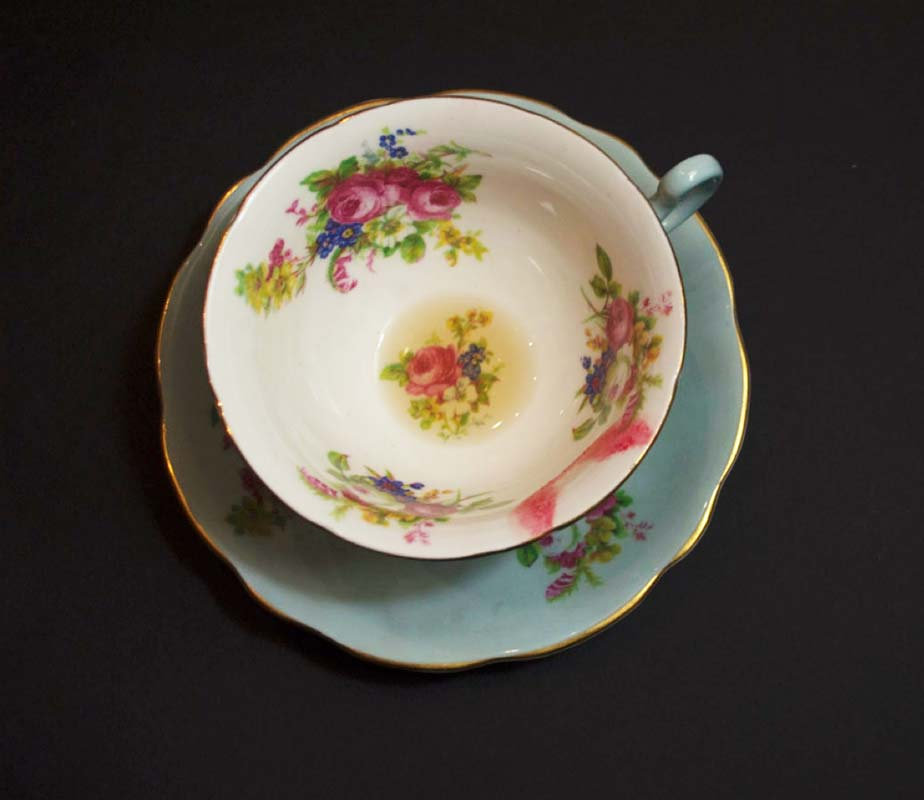
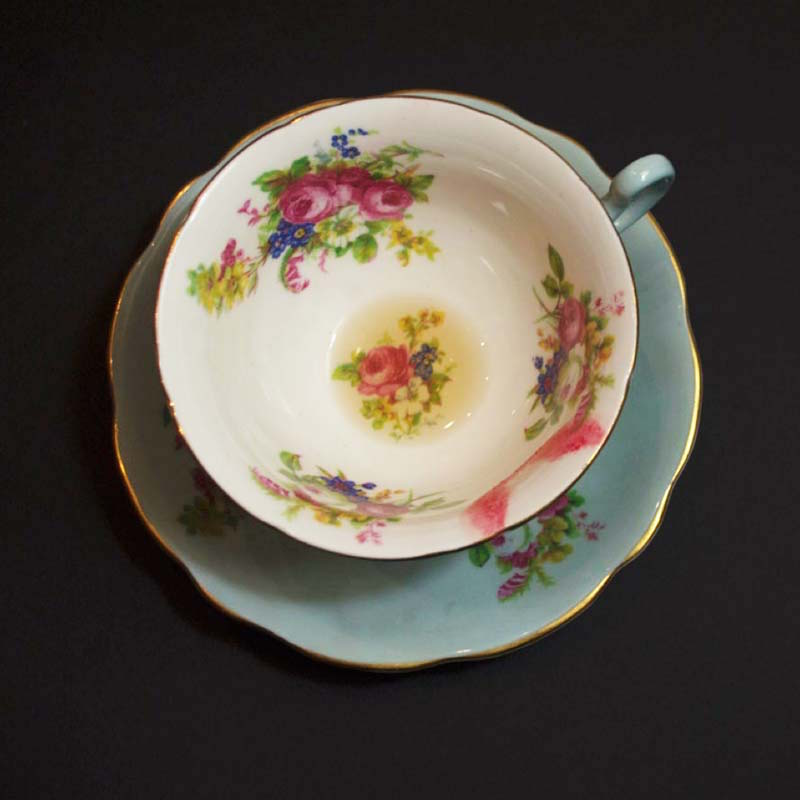
Adjusted the layout and image sizes

Changed region(s): [[0.125, 0.0938, 0.9062, 0.8438], [0.4375, 0.8125, 0.4688, 0.8438]]

diff --git a/pages/project-7.html b/pages/project-7.html
@@ -9,7 +9,10 @@ banner: project-7-1.jpg
 	<div class="grid gutter-1-2 pad-b-2">
 		<div class="unit xs-1 s-1 m-1 l-1 island-1-2">
 			<div class="grid">
-				<div class="unit xs-1 s-1 m-1-2 l-1-2 island-1-2 project-info">
+				<div  class="unit xs-1 s-1 m-1-2 l-1-3 island-1-2">
+					<img src="{{site.baseurl}}/images/project-7-1.jpg" alt="Book Cover Redesign">
+				</div>
+				<div class="unit xs-1 s-1 m-1-2 l-2-3 island-1-2 project-info">
 					<h1 class="push-0">Book Cover Redesign</h1>
 					<p class="giga">Winter 2014</p>
 					<p><b>Goal:</b> Redesign a book cover with typographic design</p>
@@ -18,14 +21,9 @@ banner: project-7-1.jpg
 				</div>
 			</div>
 		</div>
-		<img class="unit xs-1 s-1 m-1-3 l-1-3 island-1-2" src="{{site.baseurl}}/images/project-7-1.jpg" alt="Book Cover Redesign">
-		<img class="unit xs-1 s-1 m-1-3 l-1-3 island-1-2" src="{{site.baseurl}}/images/project-7-3.jpg" alt="Original Book cover">
-		<img class="unit xs-1 s-1 m-1-3 l-1-3 island-1-2" src="{{site.baseurl}}/images/project-7-4.jpg" alt="Sample of Marian Bantjes sugar typography">
-	</div>
-	<div class="grid gutter-1-2 pad-t pad-b-2">
-		<h3 class="unit xs-1 s-1 m-1 l-1 island-1-2 push-0">Sketches</h3>
-		<img class="unit xs-1 s-1-2 m-1-3 l-1-3 island-1-2" src="{{site.baseurl}}/images/project-7-sketches-1.jpg" alt="Sugar packets">
-		<img class="unit xs-1 s-1-2 m-1-3 l-1-3 island-1-2" src="{{site.baseurl}}/images/project-7-sketches-2.jpg" alt="Photo of lipstick stained teacup">
-		<img class="unit xs-1 s-1-2 m-1-3 l-1-3 island-1-2" src="{{site.baseurl}}/images/project-7-sketches-3.jpg" alt="Original photo of my handmade sugar typography">				
+		<img class="unit xs-1 s-1-2 m-1-4 l-1-4 island-1-2" src="{{site.baseurl}}/images/project-7-3.jpg" alt="Original Book cover">
+		<img class="unit xs-1 s-1-2 m-1-4 l-1-4 island-1-2" src="{{site.baseurl}}/images/project-7-sketches-1.jpg" alt="Sugar packets">
+		<img class="unit xs-1 s-1-2 m-1-4 l-1-4 island-1-2" src="{{site.baseurl}}/images/project-7-sketches-2.jpg" alt="Photo of lipstick stained teacup">	
+		<img class="unit xs-1 s-1-2 m-1-4 l-1-4 island-1-2" src="{{site.baseurl}}/images/project-7-4.jpg" alt="Sample of Marian Bantjes sugar typography">			
 	</div>
 </main>
